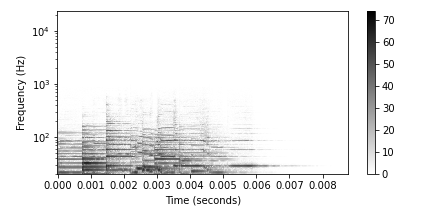
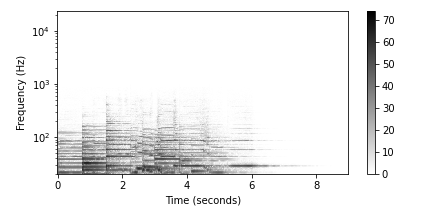
fix spectrogram x axis

Changed region(s): [[0.0903, 0.8056, 0.7824, 0.8889]]

diff --git a/scripts/DP/Handler/visualizer.py b/scripts/DP/Handler/visualizer.py
@@ -63,7 +63,7 @@ def plot_spectrogram(x, Fs):
     X = librosa.stft(x, n_fft = N, hop_length = H, win_length=N, window = 'hann', center = True, pad_mode = "constant")
     gamma = 100
     Y = 20*np.log10(1+gamma*abs(X))
-    fig = plot_matrix(Y, Fs)
+    fig = plot_matrix(Y,Fs=Fs/H)
     plt.yscale('log')
     plt.ylim([20, Fs/2])
     plt.show()

diff --git a/scripts/DP/DP.py b/scripts/DP/DP.py
@@ -14,7 +14,7 @@ from matplotlib import pyplot as plt
 import os
 
 Fs = 48000
-fn_wav_x = os.path.join('..', '..', 'data', 'audio', 'dtw_test.wav')
+fn_wav_x = os.path.join('..', '..', 'data', 'audio', 'test.wav')
 x, Fs = librosa.load(fn_wav_x, sr=Fs, mono=True)
 fig, ax = plot_signal_in_time(x=x, Fs=Fs)
 #plt.show()
